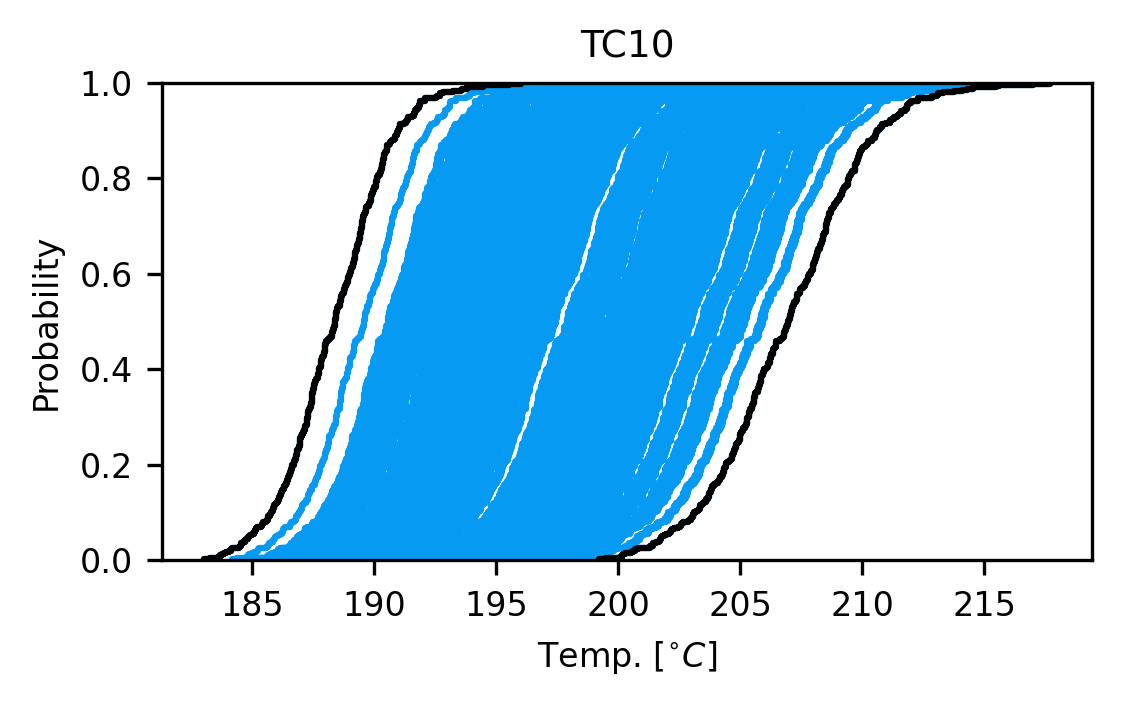
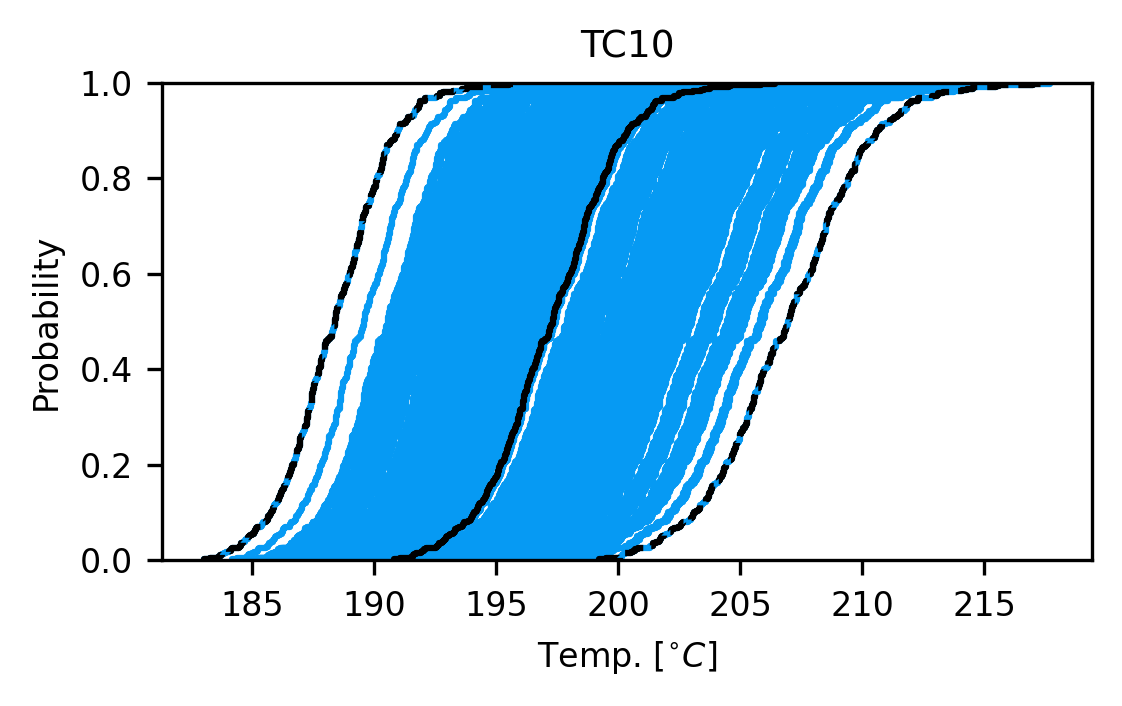
Working for all combinations of exp/sim epistemic errors

diff --git a/scripts/main_thermocouples_pulses25X.py b/scripts/main_thermocouples_pulses25X.py
@@ -24,7 +24,9 @@ def main() -> None:
     plot_opts = pyvale.PlotOptsGeneral()
 
     #---------------------------------------------------------------------------
-    # Load Sim Data
+    # Simulation: Load Data
+    print(f"Loading simulation data from:\n    {SIM_DIR}")
+
     # Reduced: 5000 = 100 aleatory x 50 epistemic
     # Full: 400 aleatory x 250 epistemic
     # exp_data = exp_data.reshape(samps_n,epis_n,alea_n)
@@ -58,7 +60,8 @@ def main() -> None:
         # print()
 
     #---------------------------------------------------------------------------
-    # Load Exp Data
+    # Experiment: Load Data
+    print(f"Loading experimental data from:\n    {EXP_DIR}")
 
     exp_file_pre = ["Pulse253","Pulse254","Pulse255"]
     exp_file_post = ["SteadyDICData","SteadyHIVEData","SteadyPICOData"]
@@ -80,23 +83,30 @@ def main() -> None:
             for jj,kk in enumerate(exp_data_keys[ii]):
                 exp_data[kk] = data[:,jj]
 
-    # for ee in exp_data:
-    #     print(f"{ee}")
-    #     print(f"{exp_data[ee].shape}")
-    #     print()
+    print("Loading experimental epistemic error data.")
+    exp_epis_file = Path.cwd() / "STC_ProbSim_Meta" / "STC2_1550A_SteadySummary.csv"
+    exp_epis_err = pd.read_csv(exp_epis_file)
+    exp_epis_err = exp_epis_err.to_numpy()
+    # Extract the last row and columns where the 10 TCs and coil voltage are
+    exp_epis_err = np.array(exp_epis_err[-1,-11:],dtype=np.float64)
 
-
+    # Move the coil voltage from the start to end to match everything else
+    temp = np.copy(exp_epis_err)
+    exp_epis_err[-1] = temp[0]
+    exp_epis_err[0:-1] = temp[1:]
+    del temp
 
     #---------------------------------------------------------------------------
-    # Find Min/Max CDF over all eps
-
+    # Simulation: Find Min/Max CDF over all eps
+    print()
+    print(80*"-")
+    print("Extracting max and min cdf over all simulations.")
 
     # Extract all the simulation cdfs by looping over the epistemic sampling
-    sim_cdfs = {}
-    sim_max_cdf = {}
-    sim_min_cdf = {}
-    sim_max_data = {}
-    sim_min_data = {}
+    sim_cdfs_all = {}
+    sim_data_lims = {}
+    sim_cdfs_lims ={}
+
 
     for kk in sim_data:
         cdfs = []
@@ -110,9 +120,13 @@ def main() -> None:
         sum_min_cdf = np.sum(min_cdf.quantiles)
         sum_max_cdf = np.sum(max_cdf.quantiles)
 
+        accum_cdf = np.zeros_like(max_cdf.quantiles)
+
         for ee in range(epis_n):
             this_cdf = stats.ecdf(sim_data[kk][ee,:]).cdf
             this_cdf_sum = np.sum(this_cdf.quantiles)
+
+            accum_cdf = accum_cdf + this_cdf.quantiles
 
             if this_cdf_sum > sum_max_cdf:
                 sum_max_cdf = this_cdf_sum
@@ -126,26 +140,37 @@ def main() -> None:
 
             cdfs.append(this_cdf)
 
-        sim_cdfs[kk] = cdfs
-        sim_max_cdf[kk] = max_cdf
-        sim_min_cdf[kk] = min_cdf
-        sim_max_data[kk] = max_data
-        sim_min_data[kk] = min_data
+        sim_cdfs_all[kk] = cdfs
+
+        mean_data = accum_cdf / epis_n
+        this_data = {}
+        this_data["max"] = max_data
+        this_data["min"] = min_data
+        this_data["nom"] = mean_data
+        sim_data_lims[kk] = this_data
+
+        mean_cdf = stats.ecdf(mean_data).cdf
+        this_cdf = {}
+        this_cdf["max"] = max_cdf
+        this_cdf["min"] = min_cdf
+        this_cdf["nom"] = mean_cdf
+        sim_cdfs_lims[kk] = this_cdf
 
 
     plot_all_sim_cdfs = False
     if plot_all_sim_cdfs:
-        for ii,kk in enumerate(sim_cdfs):
+        for ii,kk in enumerate(sim_cdfs_all):
             fig, axs=plt.subplots(1,1,
                                 figsize=plot_opts.single_fig_size_landscape,
                                 layout="constrained")
             fig.set_dpi(plot_opts.resolution)
 
-            for cc in sim_cdfs[kk]:
+            for cc in sim_cdfs_all[kk]:
                 axs.ecdf(cc.quantiles,color='xkcd:azure')
 
-            axs.ecdf(sim_min_cdf[kk].quantiles,color="black")
-            axs.ecdf(sim_max_cdf[kk].quantiles,color="black")
+            axs.ecdf(sim_cdfs_lims[kk]["max"].quantiles,ls="--",color="black",)
+            axs.ecdf(sim_cdfs_lims[kk]["min"].quantiles,ls="--",color="black")
+            axs.ecdf(sim_cdfs_lims[kk]["nom"].quantiles,ls="-",color="black")
 
             axs.set_title(kk,fontsize=plot_opts.font_head_size)
             axs.set_xlabel(sens_ax_labels[ii],fontsize=plot_opts.font_ax_size)
@@ -154,78 +179,59 @@ def main() -> None:
             save_fig_path = save_path / f"sim_allcdfs_{kk}.png"
             fig.savefig(save_fig_path,dpi=300,format="png",bbox_inches="tight")
 
+    #---------------------------------------------------------------------------
+    # Experiment: Calculate min/max cdf based on epistemic error
 
-    # for kk in exp_data:
-    #     print(f"{kk=}")
-    #     print(f"{exp_data[kk].shape=}")
-    #     check_nan = np.any(np.isnan(exp_data[kk]))
-    #     print(f"{check_nan=}")
-
+    exp_data_lims = {}
+    for ii,kk in enumerate(exp_data):
+        this_exp = {}
+        this_exp["nom"] = exp_data[kk]
+        this_exp["min"] = exp_data[kk] - exp_epis_err[ii]
+        this_exp["max"] = exp_data[kk] + exp_epis_err[ii]
+        exp_data_lims[kk] = this_exp
 
 
     #---------------------------------------------------------------------------
     # Calculate MAVM
-    mavm_epis_max = {}
-    mavm_epis_min = {}
+    mavm = {}
+    mavm_keys = ("min","max")
 
     print(80*"-")
-    print("Calculating MAVM for max sim epistemic error...")
-    for ii,kk in enumerate(exp_data):
+    print("Calculating MAVM...")
+    for ii,kk in enumerate(exp_data_lims): # Loop over sensors: TCs + CV
+        this_mavm = {}
+        for es in mavm_keys: # Loop over EXP stats: min,max
+            for ss in mavm_keys: # Loop over SIM stats: min,max
 
-        if np.any(np.isnan(exp_data[kk])):
-            continue
+                # Some TCs missing from exp data, skip them
+                if not np.any(np.isnan(exp_data_lims[kk][es])):
 
-        print(80*"-")
-        print(f"{exp_data[kk].shape=}")
-        print(f"{sim_max_data[kk].shape=}")
-        print()
-        print(f"{np.mean(exp_data[kk])=}")
-        print(f"{np.mean(sim_max_data[kk])=}")
-        print()
+                    print(80*"-")
+                    print(f"sens-{kk}_sim-{ss}_exp-{es}")
+                    print(f"{exp_data_lims[kk][es].shape=}")
+                    print(f"{sim_data_lims[kk][ss].shape=}")
+                    print()
+                    print(f"{np.mean(exp_data_lims[kk][es])=}")
+                    print(f"{np.mean(sim_data_lims[kk][ss])=}")
+                    print()
 
-        mavm_epis_max[kk] = vm.mavm(sim_max_data[kk],exp_data[kk])
+                    stat_key = f"sim-{ss}_exp-{es}"
 
-        print(f"{mavm_epis_max[kk]['d+']=}")
-        print(f"{mavm_epis_max[kk]['d-']=}")
-        print(80*"-")
+                    this_mavm[stat_key] = vm.mavm(sim_data_lims[kk][ss],
+                                                  exp_data_lims[kk][es])
 
-        vm.mavm_figs(mavm_epis_max[kk],
-                     title_str=kk,
-                     field_label=sens_ax_labels[ii],
-                     field_tag=sens_tags[ii],
-                     save_tag="maxepis",
-                     save_path=save_path)
+                    print(f"{this_mavm[stat_key]['d+']=}")
+                    print(f"{this_mavm[stat_key]['d-']=}")
+                    print(80*"-")
 
-    print(80*"-")
-    print("Calculating MAVM for min sim epistemic error...")
-    for ii,kk in enumerate(exp_data):
+                    vm.mavm_figs(this_mavm[stat_key],
+                                title_str=kk,
+                                field_label=sens_ax_labels[ii],
+                                field_tag=sens_tags[ii],
+                                save_tag=stat_key,
+                                save_path=save_path)
 
-        if np.any(np.isnan(exp_data[kk])):
-            continue
-
-        print(80*"-")
-        print(f"{exp_data[kk].shape=}")
-        print(f"{sim_min_data[kk].shape=}")
-        print()
-        print(f"{np.mean(exp_data[kk])=}")
-        print(f"{np.mean(sim_min_data[kk])=}")
-        print()
-
-        mavm_epis_min[kk] = vm.mavm(sim_min_data[kk],exp_data[kk])
-
-        print(f"{mavm_epis_min[kk]['d+']=}")
-        print(f"{mavm_epis_min[kk]['d-']=}")
-        print(80*"-")
-
-        vm.mavm_figs(mavm_epis_min[kk],
-                     title_str=kk,
-                     field_label=sens_ax_labels[ii],
-                     field_tag=sens_tags[ii],
-                     save_tag="minepis",
-                     save_path=save_path)
-
-
-
+    mavm[kk] = this_mavm
 
 
 if __name__ == "__main__":
